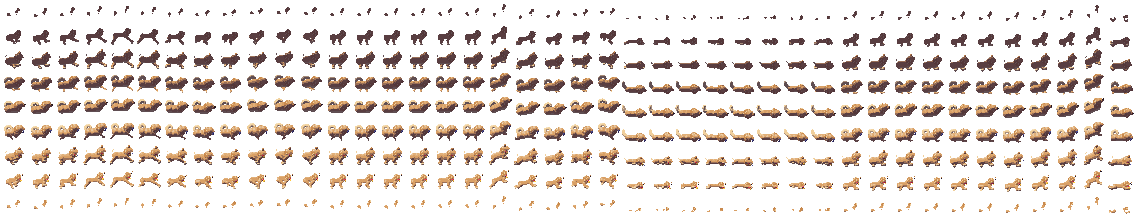
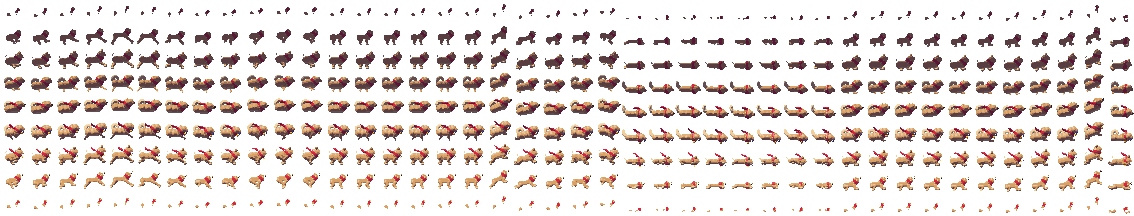
Se arregló las cajas de colisiones y el pañuelo, también el tamaño de la nube

diff --git a/jefes.html b/jefes.html
@@ -39,6 +39,7 @@
       <label><input type="checkbox" name="trio"> Fuego jade (trío completo)</label>
       <label><input type="checkbox" name="invencible"> No perder corazones</label>
       <label><input type="checkbox" name="vuelo"> Empezar con la estrella (volar)</label>
+      <label><input type="checkbox" name="cajas"> Ver cajas (rojo: choque · verde: recoger)</label>
     </fieldset>
     <h2>Jugar con un animal</h2>
     <ul id="animals"><li>Abre esta página desde un servidor local, como el juego.</li></ul>
@@ -53,7 +54,7 @@
 
     const options = document.querySelector('fieldset');
     const KEY = 'chowchow.pruebas';
-    const inputs = { hard: '[value="hard"]', trio: '[name="trio"]', invencible: '[name="invencible"]', vuelo: '[name="vuelo"]' };
+    const inputs = { hard: '[value="hard"]', trio: '[name="trio"]', invencible: '[name="invencible"]', vuelo: '[name="vuelo"]', cajas: '[name="cajas"]' };
     const input = (key) => options.querySelector(inputs[key]);
     const read = () => Object.fromEntries(Object.keys(inputs).map((key) => [key, input(key).checked]));
     // Se recuerda lo elegido mientras la pestaña siga abierta
@@ -72,9 +73,9 @@
     }
     /** Un botón: adónde lleva, su dibujo, su título y los renglones de abajo. */
     function card(query, icon, title, lines, drawn = false) {
-      const { hard, trio, invencible, vuelo } = read();
+      const { hard, trio, invencible, vuelo, cajas } = read();
       const params = new URLSearchParams({ ...query, dificultad: hard ? 'hard' : 'easy' });
-      for (const [key, on] of Object.entries({ trio, invencible, vuelo })) if (on) params.set(key, '1');
+      for (const [key, on] of Object.entries({ trio, invencible, vuelo, cajas })) if (on) params.set(key, '1');
       const link = document.createElement('a');
       link.href = './?' + params;
       link.classList.toggle('is-drawn', drawn);

diff --git a/js/graphics/Scene.js b/js/graphics/Scene.js
@@ -95,6 +95,7 @@ export class Scene {
     if (view.boss) this.drawBoss(view.boss, { x: view.headX, y: view.headY - CONFIG.player.head.h / 2 });
     this.drawPlayer(view);
     this.drawFireballs(view);
+    if (CONFIG.test?.boxes) this.drawBoxes(view);
     ctx.setTransform(1 / P, 0, 0, 1 / P, 0, 0);
     this.drawMarkers(view);
   }
@@ -643,6 +644,20 @@ export class Scene {
       ctx.fillStyle = blink ? boss.fire : COLORS.fire[0];
       ctx.fillRect(head.x - 4, head.y + 10, 6, 6);
     }
+  }
+
+  /** Para probar (&cajas=1): las cajas de choque (rojo) y para recoger (verde). */
+  drawBoxes({ dragon: player, obstacles, pickups }) {
+    const ctx = this.ctx;
+    ctx.lineWidth = P;
+    const outline = (boxes, color) => {
+      ctx.strokeStyle = color;
+      for (const b of boxes) ctx.strokeRect(b.x + P / 2, b.y + P / 2, b.w - P, b.h - P);
+    };
+    outline(obstacles.map((o) => ({ x: o.x + 1, y: o.y + 1, w: o.w - 2, h: o.h - 2 })), '#ff4d4d');
+    outline(pickups.map((p) => ({ x: p.x - p.r, y: p.y - p.r, w: p.r * 2, h: p.r * 2 })), '#5dff8a');
+    outline(player.reach(), '#5dff8a');
+    outline(player.hitboxes(), '#ff4d4d');
   }
 
   /**

diff --git a/js/config.js b/js/config.js
@@ -66,6 +66,10 @@ export const CONFIG = {
       { w: 14, h: 10 },
       { w: 12, h: 8 },
     ],
+    // Con qué recoge (la estrella, comida, cócteles e ingredientes): una caja más grande que la de choque,
+    // del tamaño del dibujo, para que lo que se ve tocado se tome. Es la misma para los 12 animales.
+    // Desde el centro y los pies: hacia atrás, adelante, arriba (duck: agachado) y, volando, abajo (la nube)
+    reach: { back: 30, front: 30, up: 40, duck: 22, cloud: 10 },
     invulnerableSeconds: 1.5,
     hurtBounce: 260, // el saltito al recibir un golpe
     deathSlide: 160, // al morir, qué tan rápido se tiende el cuerpo en el suelo
@@ -262,6 +266,7 @@ export const CONFIG = {
     difficulty: params.get('dificultad') === 'hard' ? 'hard' : 'easy',
     trio: params.has('trio'),
     invincible: params.has('invencible'),
+    boxes: params.has('cajas'), // dibuja las cajas: de choque (rojo) y para recoger (verde)
   } : null,
 
   storageKey: 'chowchow.record',

diff --git a/js/graphics/animalArt.js b/js/graphics/animalArt.js
@@ -38,9 +38,9 @@ export const ANIMAL_ART = {
       body: {
         y: 0,
         w: 35,
-        h: 26,
+        h: 29,
         ax: 20,
-        ay: 22,
+        ay: 25,
         depth: 5,
         frames: 42
       }
@@ -234,9 +234,9 @@ export const ANIMAL_ART = {
       body: {
         y: 0,
         w: 28,
-        h: 19,
+        h: 20,
         ax: 16,
-        ay: 17,
+        ay: 18,
         depth: 4,
         frames: 42
       }
@@ -407,7 +407,7 @@ export const ANIMAL_ART = {
         ax: 3,
         ay: 3,
         depth: 3,
-        frames: 196
+        frames: 245
       },
       coil: {
         y: 154,
@@ -424,7 +424,8 @@ export const ANIMAL_ART = {
     radii: [3.2, 3, 2.7, 2.4, 2, 1.5, 1],
     turns: [-0.7, -0.35, 0, 0.35, 0.7],
     angles: [-1.2, -0.8, -0.4, 0, 0.4, 0.8, 1.2],
-    patterns: 4,
+    patterns: 5,
+    skin: 4,
     stride: 24,
     portrait: 'assets/images/animales/snake-retrato.png'
   },

diff --git a/js/graphics/animalPainter.js b/js/graphics/animalPainter.js
@@ -323,7 +323,7 @@ export class AnimalPainter {
       const behind = path[Math.min(path.length - 1, i + 2)];
       const angle = Math.atan2(behind.y - ahead.y, ahead.x - behind.x);
       const r = clamp(Math.round((i / (path.length - 1)) * (art.radii.length - 1) - 0.1), 0, art.radii.length - 1);
-      const frame = (r * art.angles.length + nearest(art.angles, angle)) * art.patterns + (i % art.patterns);
+      const frame = (r * art.angles.length + nearest(art.angles, angle)) * art.patterns + (snake && (i === 5 || i === 6) ? art.skin : i % (art.skin ?? art.patterns)); // (la serpiente lleva su pañuelo)
       // Con una de cada dos capas basta: las vértebras se enciman
       this.put(image, pieces.spine, frame, Math.round(p.x), Math.round(p.y), Math.round(p.z), -2, 2);
     }

diff --git a/js/entities/Player.js b/js/entities/Player.js
@@ -368,6 +368,16 @@ export class Player {
     return [{ x: this.x - w / 2 + 2, y: this.y - height + 2, w: w - 4, h: height - 4 }];
   }
 
+  /**
+   * La caja con la que recoge lo que sale: del tamaño del dibujo (la de choque es más chica, para que los
+   * roces perdonen). La misma para todos los animales.
+   */
+  reach() {
+    const { back, front, up, duck, cloud } = CONFIG.player.reach;
+    const height = this.ducking ? duck : up;
+    return [{ x: this.x - back, y: this.y - height, w: back + front, h: height + (this.airborne ? cloud : 0) }];
+  }
+
   /** Una copia independiente (para simular el futuro, como hace el bot de las pruebas). */
   clone() {
     const copy = Object.assign(Object.create(Player.prototype), this);

diff --git a/js/core/Game.js b/js/core/Game.js
@@ -598,8 +598,8 @@ export class Game {
       this.hit();
       return;
     }
-    // Se recoge con la cabeza (la boca)
-    const taken = this.pickups.filter((p) => anyOverlap([body[0]], p.hitboxes()));
+    // Se recoge con todo el dibujo (Player.reach), no solo con la caja de choque
+    const taken = this.pickups.filter((p) => anyOverlap(this.player.reach(), p.hitboxes()));
     if (!taken.length) return;
     this.pickups = this.pickups.filter((p) => !taken.includes(p));
     for (const pickup of taken) {

diff --git a/README.md b/README.md
@@ -259,7 +259,8 @@ de rata... Se rebana en capas de profundidad (sprite stacking), que `js/graphics
 al jugar. La carrera avanza con lo recorrido: los pies no patinan. Cómo se ve cada animal está en
 `especies.mjs` (los de cuatro patas) y `alados.mjs` (gallo, dragón y serpiente); sus poses, en
 `poses.mjs`; la nube, en `nube.mjs`. El dragón y la serpiente se arman al jugar, con vértebras sobre el
-camino de la cabeza. La caja de choque no cambia: es la misma para los 12. Cada hoja se baja solo
+camino de la cabeza. La caja de choque es la misma para los 12 (`Player.hitboxes`), y también la caja más grande con la que
+recogen las cosas (`Player.reach`, `CONFIG.player.reach`); se ven con `&cajas=1` (en `jefes.html`). Cada hoja se baja solo
 cuando hace falta (mientras gira la rueda).
 
 ### Los jefes
